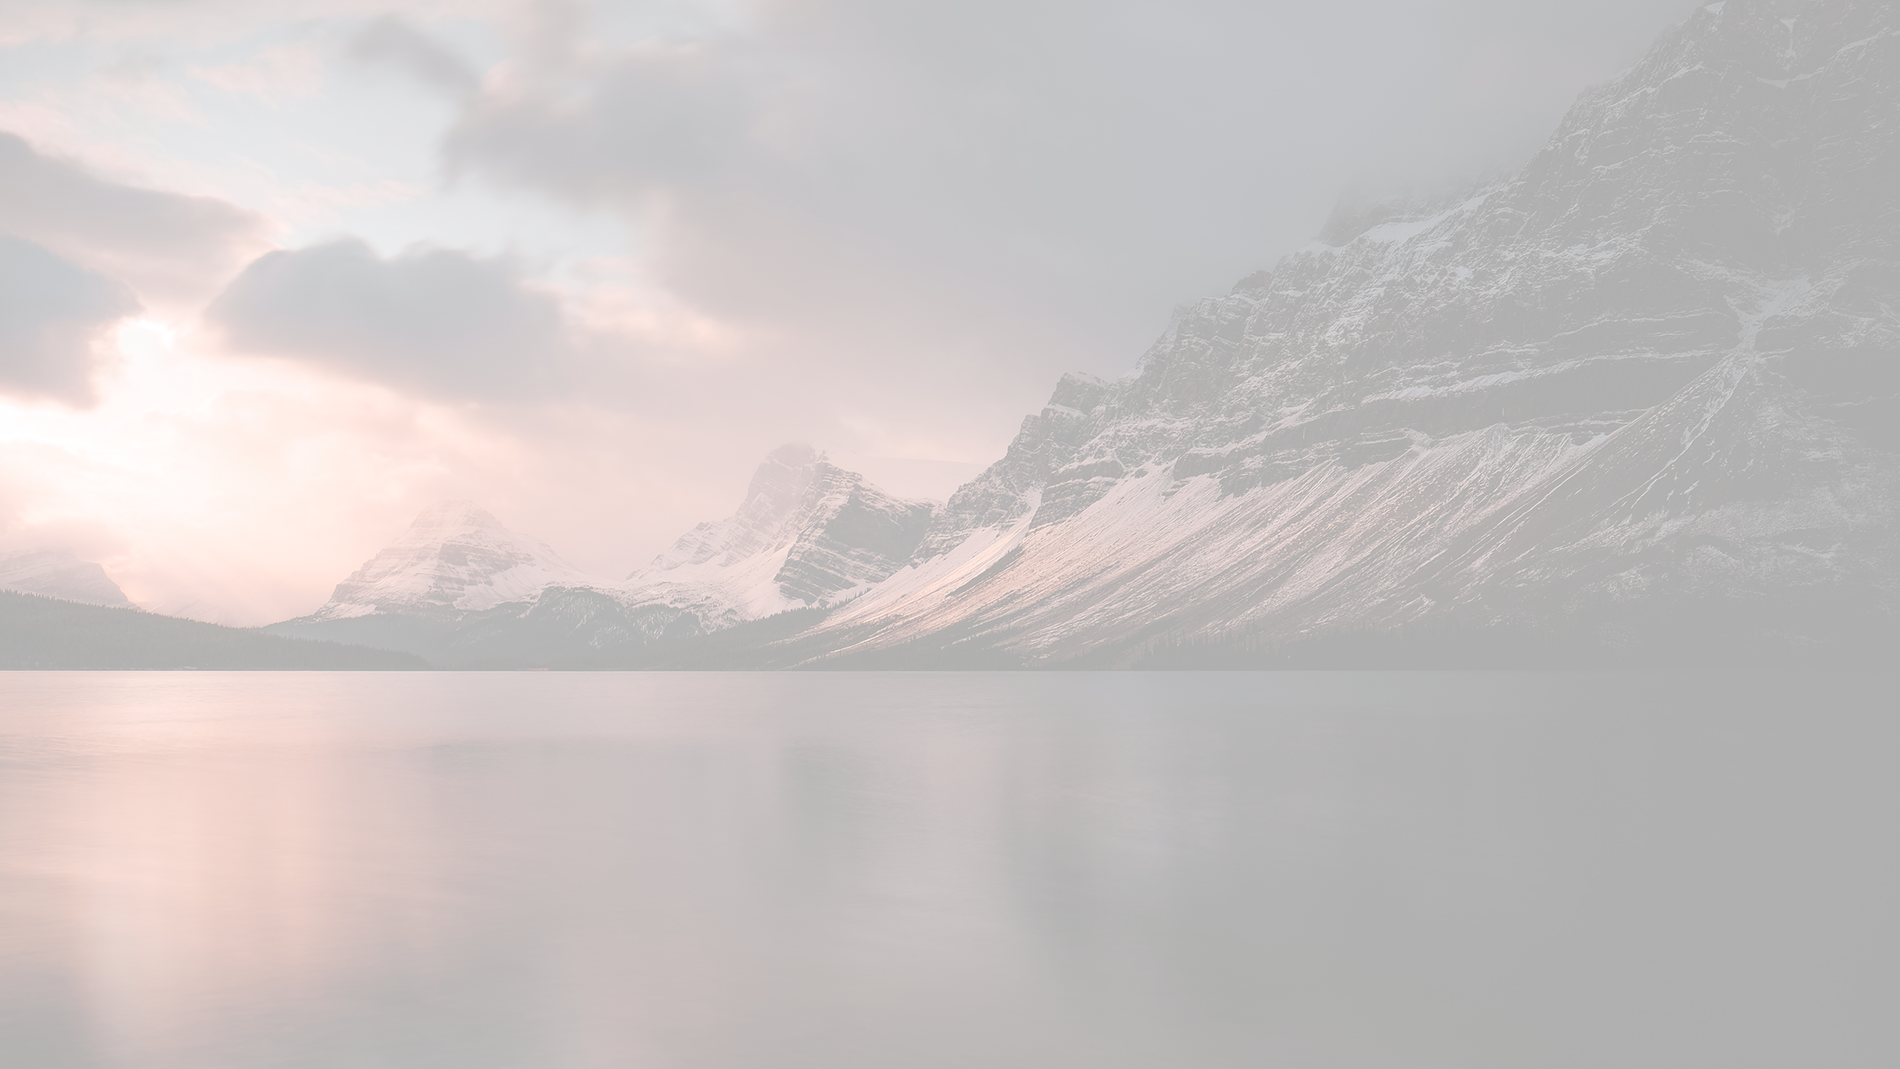
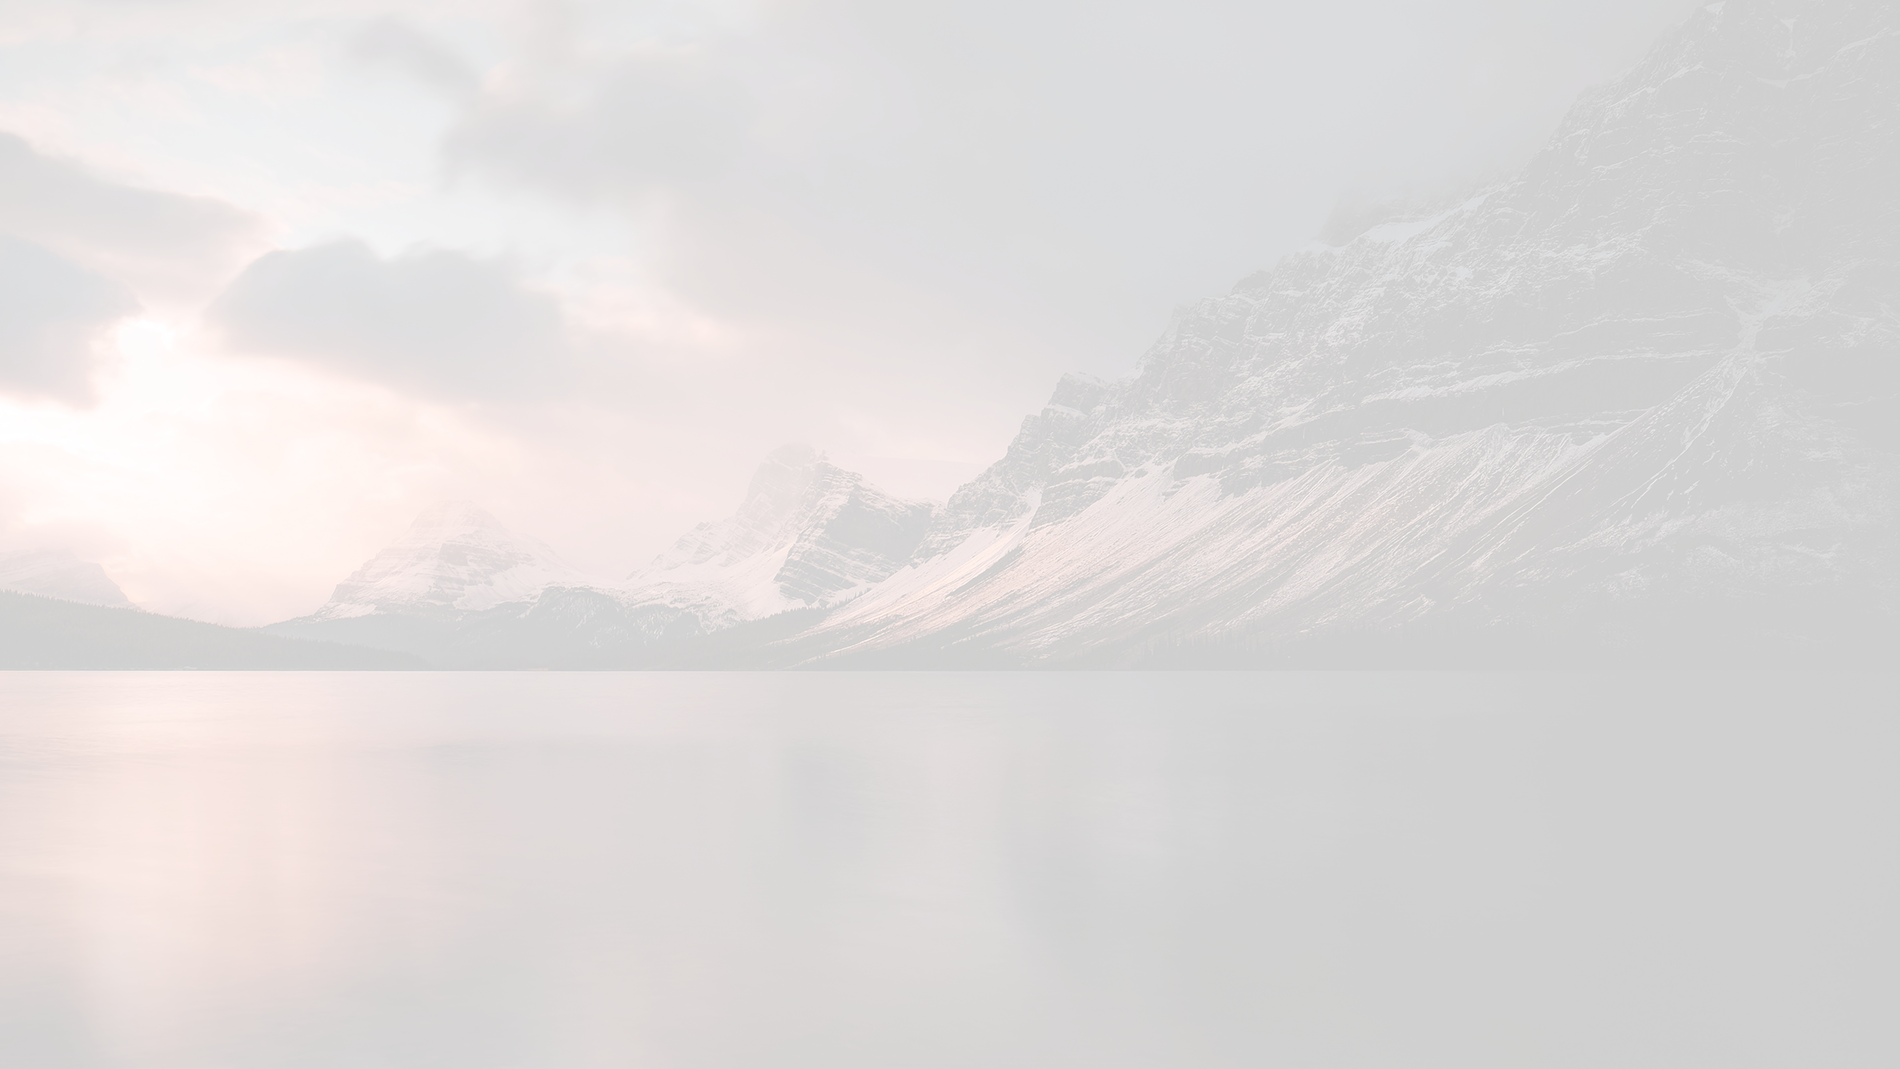
updates

diff --git a/index.html b/index.html
@@ -94,7 +94,7 @@
         <div class="row"><!-- row -->
           <div class="col-xs-12 wrap-helper">
             <div class="wrapper">
-              <h1 data-animate="once" class="ani-fade-top">
+              <h1 data-animate="once" class="ani-fade-top color-primary">
                 Welcome
               </h1>
               
@@ -126,7 +126,7 @@
         <div class="row">
           <div class="col-xs-12 wrap-helper">
             <div class="wrapper">
-              <h2 data-animate="once" class="ani-fade-top">
+              <h2 data-animate="once" class="ani-fade-top color-primary">
                 About Me
               </h2>
               
@@ -137,23 +137,26 @@
                       <div class="flip-card-front bg-tertiary">
                         <div class="card-front-head">
                           <p class="text-center color-secondary">
-                            <i class="fa fa-graduation-cap" aria-hidden="true"></i>
+                            <i class="fa fa-university" aria-hidden="true"></i>
                           </p>
                         </div>
                         <div class="card-front-body">
-                          <h4 class="text-center color-lite">
+                          <h4 class="text-center">
                             Training and Experience
                           </h4>
                         </div>
                       </div>
-                      <div class="flip-card-back bg-secondary">
-                        <h4>
-                          Training and Experience
-                        </h4>
-                        
-                        <p>
-                          I'm a self taught developer, with 5+ of experience, participated in tens of project and have 1000+ lines of code written.
-                        </p>
+                      <div class="flip-card-back bg-secondary color-lite">
+                        <div class="card-back-head">
+                          <h4 class="text-center">
+                            Training and Experience
+                          </h4>
+                        </div>
+                        <div class="card-back-body">
+                          <p>
+                            I'm a self taught developer, with 5+ years of experience, worked in tens of projects and wrote more than 10,000+ lines of code.
+                          </p>
+                        </div>
                       </div>
                     </div>
                   </div>

diff --git a/css/global.css b/css/global.css
@@ -18,7 +18,7 @@ body{
   font-size: 16px;
   line-height: 1.6;
   background-color: #fff;
-  color: #000;
+  color: #333;
   overflow-x: hidden;
 }
 
@@ -63,6 +63,7 @@ h1,
 h2,
 h3 {
   margin-bottom: 1em;
+  font-weight: bold;
 }
 
 p {
@@ -374,6 +375,17 @@ section .wrapper {
   -webkit-perspective: 1000px;
   perspective: 1000px;
   margin-bottom: 15px;
+  -webkit-transition: -webkit-transform 0.2s;
+  transition: -webkit-transform 0.2s;
+  transition: -ms-transform 0.2s;
+  -o-transition: transform 0.2s;
+  transition: transform 0.2s;
+}
+
+.flip-card:hover {
+  -webkit-transform: translateY(-15px);
+  -ms-transform: translateY(-15px);
+  transform: translateY(-15px);
 }
 
 .flip-card.last {
@@ -440,19 +452,31 @@ section .wrapper {
   z-index: 1;
 }
 
-.card-front-body {
-  width: 100%;
-  height: 100%;
+.card-front-body {  
   font-weight: bold; 
   padding: 0 10px;  
 }
 
+.flip-card-back h4,
 .card-front-body h4 {
   font-size: 25px;
+  color: #e7e7e7;
+}
+
+.fip-card-back h4::after {
+  content: "";
+  position: absolute;
+  width: 60px;
+  height: 5px;
+  background-color: #000;
 }
 
 .card-front-head p {
   font-size: 60px;
+}
+
+.card-back-body {
+  padding-top: 30px;
 }
 
 /* Footer */

diff --git a/css/dark-theme.css b/css/dark-theme.css
@@ -6,5 +6,5 @@ body {
 }
 
 #intro {
-  background-image: url("../img/bg-welcome.png");
+  background-image: url("../img/bg-welcome-dark.png");
 }
